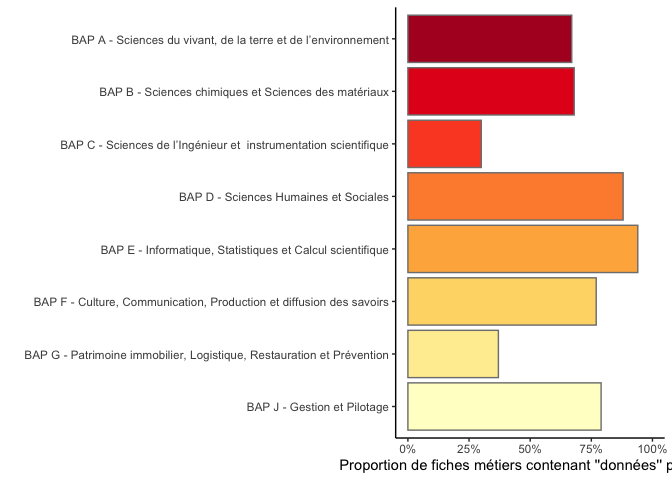
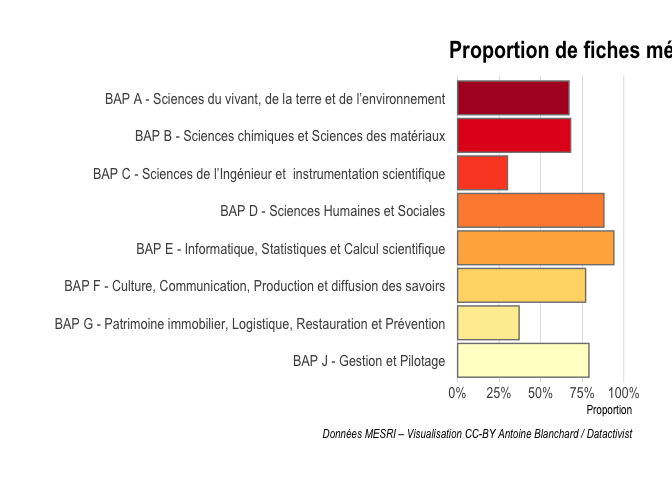
màj

Changed region(s): [[0.0312, 0.0312, 1.0, 1.0]]

diff --git a/Notebook.md b/Notebook.md
@@ -7,22 +7,24 @@ Antoine Blanchard
     RéFérens](#import-du-référentiel-métier-référens)
 -   [Transformation des données](#transformation-des-données)
 -   [Analyse des données](#analyse-des-données)
-    -   [Fréquence de l’expression “données” par
-        champ](#fréquence-de-lexpression-données-par-champ)
+    -   [Distribution des fiches
+        métiers](#distribution-des-fiches-métiers)
+    -   [Occurrences de l’expression “données” par
+        champ](#occurrences-de-lexpression-données-par-champ)
     -   [Liste des 11 métiers dont l’intitulé contient l’expression
         “données”](#liste-des-11-métiers-dont-lintitulé-contient-lexpression-données)
-    -   [Fréquence de l’expression “données” par
-        BAP](#fréquence-de-lexpression-données-par-bap)
-    -   [Fréquence de l’expression “données” par
-        corps](#fréquence-de-lexpression-données-par-corps)
+    -   [Occurrences de l’expression “données” par
+        BAP](#occurrences-de-lexpression-données-par-bap)
+    -   [Occurrences de l’expression “données” par
+        corps](#occurrences-de-lexpression-données-par-corps)
     -   [Fréquence de l’expression “données” par BAP et par
         corps](#fréquence-de-lexpression-données-par-bap-et-par-corps)
     -   [Liste des métiers IE de la BAP F liés aux
         données](#liste-des-métiers-ie-de-la-bap-f-liés-aux-données)
     -   [Métiers qui concentrent le plus le terme
         “données”](#métiers-qui-concentrent-le-plus-le-terme-données)
-    -   [Distribution des fiches métiers par
-        corps](#distribution-des-fiches-métiers-par-corps)
+    -   [Dispersion des fiches métiers par
+        corps](#dispersion-des-fiches-métiers-par-corps)
     -   [Métiers des BAP E, F, G, J où “données” apparaît comme facteur
         d’évolution moyen
         terme](#métiers-des-bap-e-f-g-j-où-données-apparaît-comme-facteur-dévolution-moyen-terme)
@@ -96,6 +98,8 @@ data_filtered <- data %>%
 
 # Analyse des données
 
+## Distribution des fiches métiers
+
 On trace la distribution des 154 fiches métiers selon le nombre de fois
 où apparaît le terme “données” :
 
@@ -108,7 +112,10 @@ data_filtered %>%
          referens_cs=factor(referens_cs, levels = ordre_corps)) %>%
   ggplot(aes(x = referens_id, y = somme, color=referens_cs)) +
   geom_point() +
-  labs(y = "Nombre d'occurrences", color="Corps") +
+  labs(x="Rang", y="Nombre d'occurrences du terme ''données''", color="Corps",
+       title="Distribution des fiches métiers",
+       caption="Données MESRI – Visualisation CC-BY Antoine Blanchard / Datactivist") +
+  theme_ipsum() +
   theme(axis.title.x=element_blank(),
         axis.text.x=element_blank(),
         axis.ticks.x=element_blank())
@@ -118,10 +125,10 @@ data_filtered %>%
 
 On observe une distribution fortement asymétrique.
 
-## Fréquence de l’expression “données” par champ
+## Occurrences de l’expression “données” par champ
 
-Dans quelles colonnes du jeu de données trouve-t-on le plus le terme
-“données” ?
+Dans quelles colonnes du jeu de données (variable) trouve-t-on le plus
+le terme “données” ?
 
 ``` r
 denombrement %>%
@@ -133,9 +140,10 @@ denombrement %>%
   filter(somme > 0) %>%
   ggplot(aes(x=fct_reorder(variable, somme), y = somme)) +
   geom_col(aes(fill = variable), color = "grey50") +
-  labs(x = "", y = "Nombre d'occurrences")+
+  labs(x = "", y = "Nombre d'occurrences du terme ''données''",
+       caption="Données MESRI – Visualisation CC-BY Antoine Blanchard / Datactivist")+
   coord_flip()+
-  theme_classic() +
+  theme_ipsum() +
   theme(legend.position = "none")
 ```
 
@@ -186,7 +194,7 @@ kable(intitule_filtered, caption = "Métiers incluant le terme 'données' dans l
 
 Métiers incluant le terme ‘données’ dans leur intitulé
 
-## Fréquence de l’expression “données” par BAP
+## Occurrences de l’expression “données” par BAP
 
 Proportion des fiches métiers qui contiennent l’expression “données” par
 BAP :
@@ -207,9 +215,12 @@ BAP_filtered_pourcentage <- BAP_filtered %>%
 BAP_filtered_pourcentage %>%
   ggplot(aes(x = bap, y = pourcentage_bap)) +
   geom_col(aes(fill = bap), color = "grey50") +
-  labs(x = "", y = "Proportion de fiches métiers contenant ''données'' par BAP") +
+  labs(x = "", y = "Proportion",
+       title="Proportion de fiches métiers liées aux ''données'' par BAP",
+    caption="Données MESRI – Visualisation CC-BY Antoine Blanchard / Datactivist") +
+  theme_ipsum() +
   coord_flip() +
-  theme_classic() +
+  theme_ipsum(grid="X") +
   theme(legend.position = "none") +
   scale_fill_manual(values = brewer.pal(8, "YlOrRd")) +
   scale_y_continuous(labels = scales::percent, limits = c(0,1))
@@ -224,7 +235,7 @@ directement le soutien à la recherche, sont moins concernés par les
 données que les BAP F et J qui sont liés à l’administration de
 l’université et se retrouvent plutôt dans l’administration centrale.
 
-## Fréquence de l’expression “données” par corps
+## Occurrences de l’expression “données” par corps
 
 Proportion des fiches métiers qui contiennent l’expression “données” par
 corps :
@@ -245,9 +256,11 @@ corps_filtered_pourcentage <- corps_filtered %>%
 corps_filtered_pourcentage %>%
   ggplot(aes(x = referens_cs, y = pourcentage_corps)) +
   geom_col(aes(fill = referens_cs), color = "grey50") +
-  labs(x = "", y = "Proportion de fiches métiers contenant ''données'' par corps") +
+  labs(x = "Corps", y = "Proportion",
+       title="Proportion de fiches métiers liées aux ''données'' par corps",
+      caption="Données MESRI – Visualisation CC-BY Antoine Blanchard / Datactivist") +
   coord_flip() +
-  theme_classic() +
+  theme_ipsum(grid="X") +
   theme(legend.position = "none") +
   scale_y_continuous(labels = scales::percent, limits = c(0,1))
 ```
@@ -265,7 +278,10 @@ data_filtered %>%
       mutate(referens_cs=factor(referens_cs, levels = ordre_corps)) %>%
   ggplot(aes(x = referens_bap_id, fill=referens_cs)) +
     geom_bar() +
-      labs(x= "BAP", y = "Nombre de fiches métiers", fill="Corps")
+      labs(x= "BAP", y = "Nombre de fiches métiers", fill="Corps",
+           title="Nombre de fiches métiers liées aux données par corps et par BAP",
+         caption="Données MESRI – Visualisation CC-BY Antoine Blanchard / Datactivist") +
+theme_ipsum(grid="Y")
 ```
 
 ![](Notebook_files/figure-gfm/stack_corps-1.png)<!-- -->
@@ -340,10 +356,10 @@ proportionnellement plus de métiers liés **aux** données, mais dans
 quels corps trouve-t-on les métiers **des** données (c’est-à-dire où le
 terme apparaît le plus fréquemment) ?
 
-## Distribution des fiches métiers par corps
+## Dispersion des fiches métiers par corps
 
-On trace la distribution des fiches métiers par corps, avec une
-représentation par boxplot :
+On trace la dispersion des fiches métiers par corps selon les
+occurrences du mot “données”, avec une représentation par boxplot :
 
 ``` r
 data_filtered %>%
@@ -351,14 +367,17 @@ data_filtered %>%
   ggplot(aes(x = referens_cs, y = somme, color=referens_cs)) +
     geom_boxplot()+
   geom_jitter(shape=16, position=position_jitter (0.2)) +
-    labs(x= "Corps", y = "Nombre d'occurrences", color="Corps")+
-  theme(legend.position = "none")
+    labs(x= "Corps", y = "Nombre d'occurrences du terme ''données''", color="Corps",
+         title="Dispersion des fiches métiers liées aux données par corps",
+         caption="Données MESRI – Visualisation CC-BY Antoine Blanchard / Datactivist") +
+  theme_ipsum() +
+    theme(legend.position = "none")
 ```
 
 ![](Notebook_files/figure-gfm/boxplot_corps-1.png)<!-- -->
 
 Il apparaît que les corps IE et IR ont la distribution la plus étirée
-par le haut, ce sont ceux où l’on trouve le plus les métiers **des**
+vers le haut, ce sont ceux où l’on trouve le plus de métiers **des**
 données.
 
 ## Métiers des BAP E, F, G, J où “données” apparaît comme facteur d’évolution moyen terme
